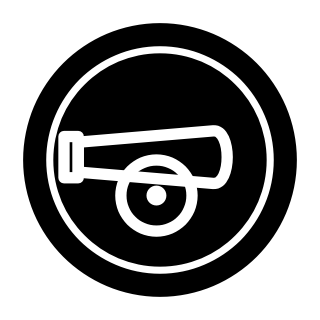
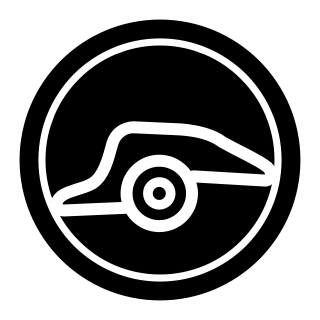
Redraw cannon and lance from Mac's references; five man options

diff --git a/art/source/piece_options/round2/make_pieces.py b/art/source/piece_options/round2/make_pieces.py
@@ -1,0 +1,96 @@
+"""Second round: cannon and lance redrawn from Mac's reference pictures, and five
+options for the man. Cburnett conventions: 45x45 canvas, 1.5 outline; white pieces
+are white with black lines, black pieces are black with white lines."""
+import os
+OUT = os.path.dirname(os.path.abspath(__file__))
+
+STYLE = {
+    "white": dict(fill="#fff", line="#000", detail="#000"),
+    "black": dict(fill="#000", line="#000", detail="#fff"),
+}
+
+def svg(body):
+    return ('<svg xmlns="http://www.w3.org/2000/svg" width="45" height="45" viewBox="0 0 45 45">'
+            '<g stroke-width="1.5" stroke-linecap="round" stroke-linejoin="round">' + body + '</g></svg>')
+
+def shape(c, d):
+    s = STYLE[c]
+    return f'<path fill="{s["fill"]}" stroke="{s["line"]}" d="{d}"/>'
+
+def detail(c, d, width=1.5):
+    s = STYLE[c]
+    return f'<path fill="none" stroke="{s["detail"]}" stroke-width="{width}" d="{d}"/>'
+
+def dot(c, x, y, r):
+    return f'<circle cx="{x}" cy="{y}" r="{r}" fill="{STYLE[c]["detail"]}" stroke="none"/>'
+
+def ink(c):
+    """The colour of line art drawn on the piece's own fill."""
+    return "#000" if c == "white" else "#fff"
+
+# --- Cannon: round token, line-art cannon pointing right (from the reference) ----------
+def cannon(c):
+    s, k = STYLE[c], ink(c)
+    return (f'<circle cx="22.5" cy="22.5" r="19" fill="{s["fill"]}" stroke="{s["line"]}"/>'
+            + f'<circle cx="22.5" cy="22.5" r="16.6" fill="none" stroke="{k}" stroke-width="1"/>'
+            # Barrel (domed back, narrow muzzle on the right) running into the hooked trail.
+            + f'<path fill="none" stroke="{k}" stroke-width="1.7" d="M 27.2,24.8 L 37.4,25.4 C 38.2,25.2 38.4,24.2 37.6,23.5 '
+              'C 36.2,22.4 33.8,21.4 31.3,20 C 30,19 28,18.4 25.4,18.2 L 18.8,17.9 C 17.4,17.9 16.2,18.8 15.8,20.2 '
+              'C 15.2,22.4 14.6,24.8 13,25.8 C 11.6,26.6 9.6,26.8 8.6,27.6 C 7.6,28.4 7.8,29.6 9,29.6 L 18.2,29.2"/>'
+            # Wheel and hub, drawn over the carriage.
+            + f'<circle cx="22.4" cy="27.2" r="4.6" fill="{s["fill"]}" stroke="{k}" stroke-width="1.7"/>'
+            + f'<circle cx="22.4" cy="27.2" r="1.6" fill="none" stroke="{k}" stroke-width="1.4"/>')
+
+# --- Lance: shogi tile with an arrowhead on a bell-shaped base (from the reference) -----
+def lance(c):
+    k = ink(c)
+    return (shape(c, "M 22.5,5.5 L 32.5,8 L 36.5,40 L 8.5,40 L 12.5,8 Z")
+            + f'<path fill="{k}" stroke="none" d="M 22.5,10.5 C 23.6,13.5 25,16 27.5,18.6 C 25.8,18.8 24.4,19.2 23.6,19.8 '
+              'L 23.6,24 C 24,27.5 28,29.5 30.6,31 C 31.8,31.8 31.6,33.6 30,33.8 C 25,34.3 20,34.3 15,33.8 '
+              'C 13.4,33.6 13.2,31.8 14.4,31 C 17,29.5 21,27.5 21.4,24 L 21.4,19.8 C 20.6,19.2 19.2,18.8 17.5,18.6 '
+              'C 20,16 21.4,13.5 22.5,10.5 Z"/>')
+
+# --- Man options ---------------------------------------------------------------------
+SHOULDERS = "M 9,39.5 C 9,31 13,26.5 18.5,25.2 C 20.2,26.6 24.8,26.6 26.5,25.2 C 32,26.5 36,31 36,39.5 Z"
+NECK = "M 19.5,22 L 19.5,26.5 C 21.5,27.8 23.5,27.8 25.5,26.5 L 25.5,22 Z"
+
+def head(cy):
+    return f"M 22.5,{cy-8} C 18.2,{cy-8} 15.6,{cy-4.7} 15.6,{cy-0.3} C 15.6,{cy+4.3} 18.6,{cy+7.9} 22.5,{cy+7.9} C 26.4,{cy+7.9} 29.4,{cy+4.3} 29.4,{cy-0.3} C 29.4,{cy-4.7} 26.8,{cy-8} 22.5,{cy-8} Z"
+
+def man_a(c):   # plain head and shoulders
+    return shape(c, SHOULDERS) + shape(c, NECK) + shape(c, head(15.5)) + detail(c, "M 18.5,25.2 L 22.5,31 L 26.5,25.2")
+
+def man_b(c):   # soldier with a helmet
+    return (shape(c, SHOULDERS) + shape(c, NECK) + shape(c, head(16.5))
+            + shape(c, "M 15,15 C 15,9 18.2,6 22.5,6 C 26.8,6 30,9 30,15 Z")
+            + shape(c, "M 12,14.6 L 33,14.6 C 33,16.4 12,16.4 12,14.6 Z")
+            + detail(c, "M 18.5,25.2 L 22.5,31 L 26.5,25.2"))
+
+def man_c(c):   # wide-brimmed hat
+    return (shape(c, SHOULDERS) + shape(c, NECK) + shape(c, head(16.5))
+            + shape(c, "M 16.8,13 L 17.8,6.2 C 20,5.2 25,5.2 27.2,6.2 L 28.2,13 Z")
+            + shape(c, "M 10,13.6 C 10,11.6 35,11.6 35,13.6 C 35,15.6 10,15.6 10,13.6 Z")
+            + detail(c, "M 17.6,11.2 L 27.4,11.2", 1.2)
+            + detail(c, "M 18.5,25.2 L 22.5,31 L 26.5,25.2"))
+
+def man_d(c):   # side profile facing left, like the knight
+    return (shape(c, "M 9,39.5 C 9,31 13,26.5 18.5,25.4 L 27.5,25 C 32.5,26.4 36,31 36,39.5 Z")
+            + shape(c, "M 27.8,25.6 C 29.8,22 30.8,17.5 30,12.8 C 29.2,8.4 25.8,6 21.8,6.2 "
+                       "C 17.4,6.4 14.8,9.6 14.8,13.2 L 12.8,17 L 14.8,17.8 C 14.6,19 15.2,20 15.2,21 "
+                       "C 15.4,22.6 17,23.4 18.6,23.4 L 19,26 Z")
+            + dot(c, 18.2, 13.6, 1.1)
+            + detail(c, "M 25.2,14 C 26.8,14 27.4,16.4 25.8,17.2", 1.2))
+
+def man_e(c):   # simple standing figure on a base
+    return (shape(c, "M 10,39.5 L 35,39.5 L 35,36.5 L 10,36.5 Z")
+            + shape(c, "M 14.5,36.5 L 16.4,23.8 C 16.8,18 19.4,15.4 22.5,15.4 C 25.6,15.4 28.2,18 28.6,23.8 L 30.5,36.5 Z")
+            + shape(c, "M 22.5,5.4 A 4.6,4.6 0 1 0 22.51,5.4 Z")
+            + detail(c, "M 17.6,27.5 L 27.4,27.5", 1.3)
+            + detail(c, "M 18.4,19 L 17.2,27 M 26.6,19 L 27.8,27", 1.2))
+
+PIECES = {"cannon": cannon, "lance": lance,
+          "man_a": man_a, "man_b": man_b, "man_c": man_c, "man_d": man_d, "man_e": man_e}
+for name, f in PIECES.items():
+    for c in ("white", "black"):
+        open(os.path.join(OUT, f"{c}_{name}.svg"), "w").write(svg(f(c)))
+print("ok")

diff --git a/CLAUDE.md b/CLAUDE.md
@@ -94,7 +94,7 @@ Steps 1–4 DONE: army data and rules, army builder screen, saving up to 10 armi
 * Lance (L, 2.5): slides straight forward only; Promote keyword (same choices as pawns). Its moves do NOT reset the 50-move count (Mac's call).
 * Paladin (PD, 2): one step orthogonally; Shield keyword. First capture only breaks the shield: attacker stays put, turn used, counts as a capture for the 50-move rule; the shield never returns. Consequence (told to Mac): a shielded piece giving check can't be removed by "capturing" it — the king must move or block.
 * Symbols: one or two capital letters (Mac's decision). Notation writes them as-is (PDe4); FEN wraps two-letter symbols in brackets ((PD)/(pd)) and marks a broken shield with ' after the piece. A shield break is written like a capture with * on the end (Rxd5*); it moves nothing, so it never gives check.
-* Art (drafts, Mac to choose/tune): man = head and shoulders; cannon = round token with a cannon (option B, from Mac's reference; A = standing cannon on a wheel); lance = shogi-style tile with a spear (option B, from Mac's reference; A = spear on a base); paladin = armoured knight behind a big shield, plus `<team>_paladin_wounded` without the shield, shown once the shield breaks (`PieceArt` variant "wounded"). Sources and options in `res://art/source/piece_options/` (`make_pieces.py` draws them).
+* Art: paladin approved (armoured knight behind a big cross shield; `<team>_paladin_wounded` without it, shown once the shield breaks via `PieceArt` variant "wounded"). Cannon and lance redrawn closely from Mac's references (round double-ringed token with a line-art cannon pointing right; shogi tile with a barbed arrowhead on a bell-shaped base). Man: Mac choosing between options A–E in `res://art/source/piece_options/round2/` (A, plain bust, is in use). Sources in `res://art/source/piece_options/` (`make_pieces.py` scripts draw them).
 
 ## Previous milestone: playable board (pass and play)
 
